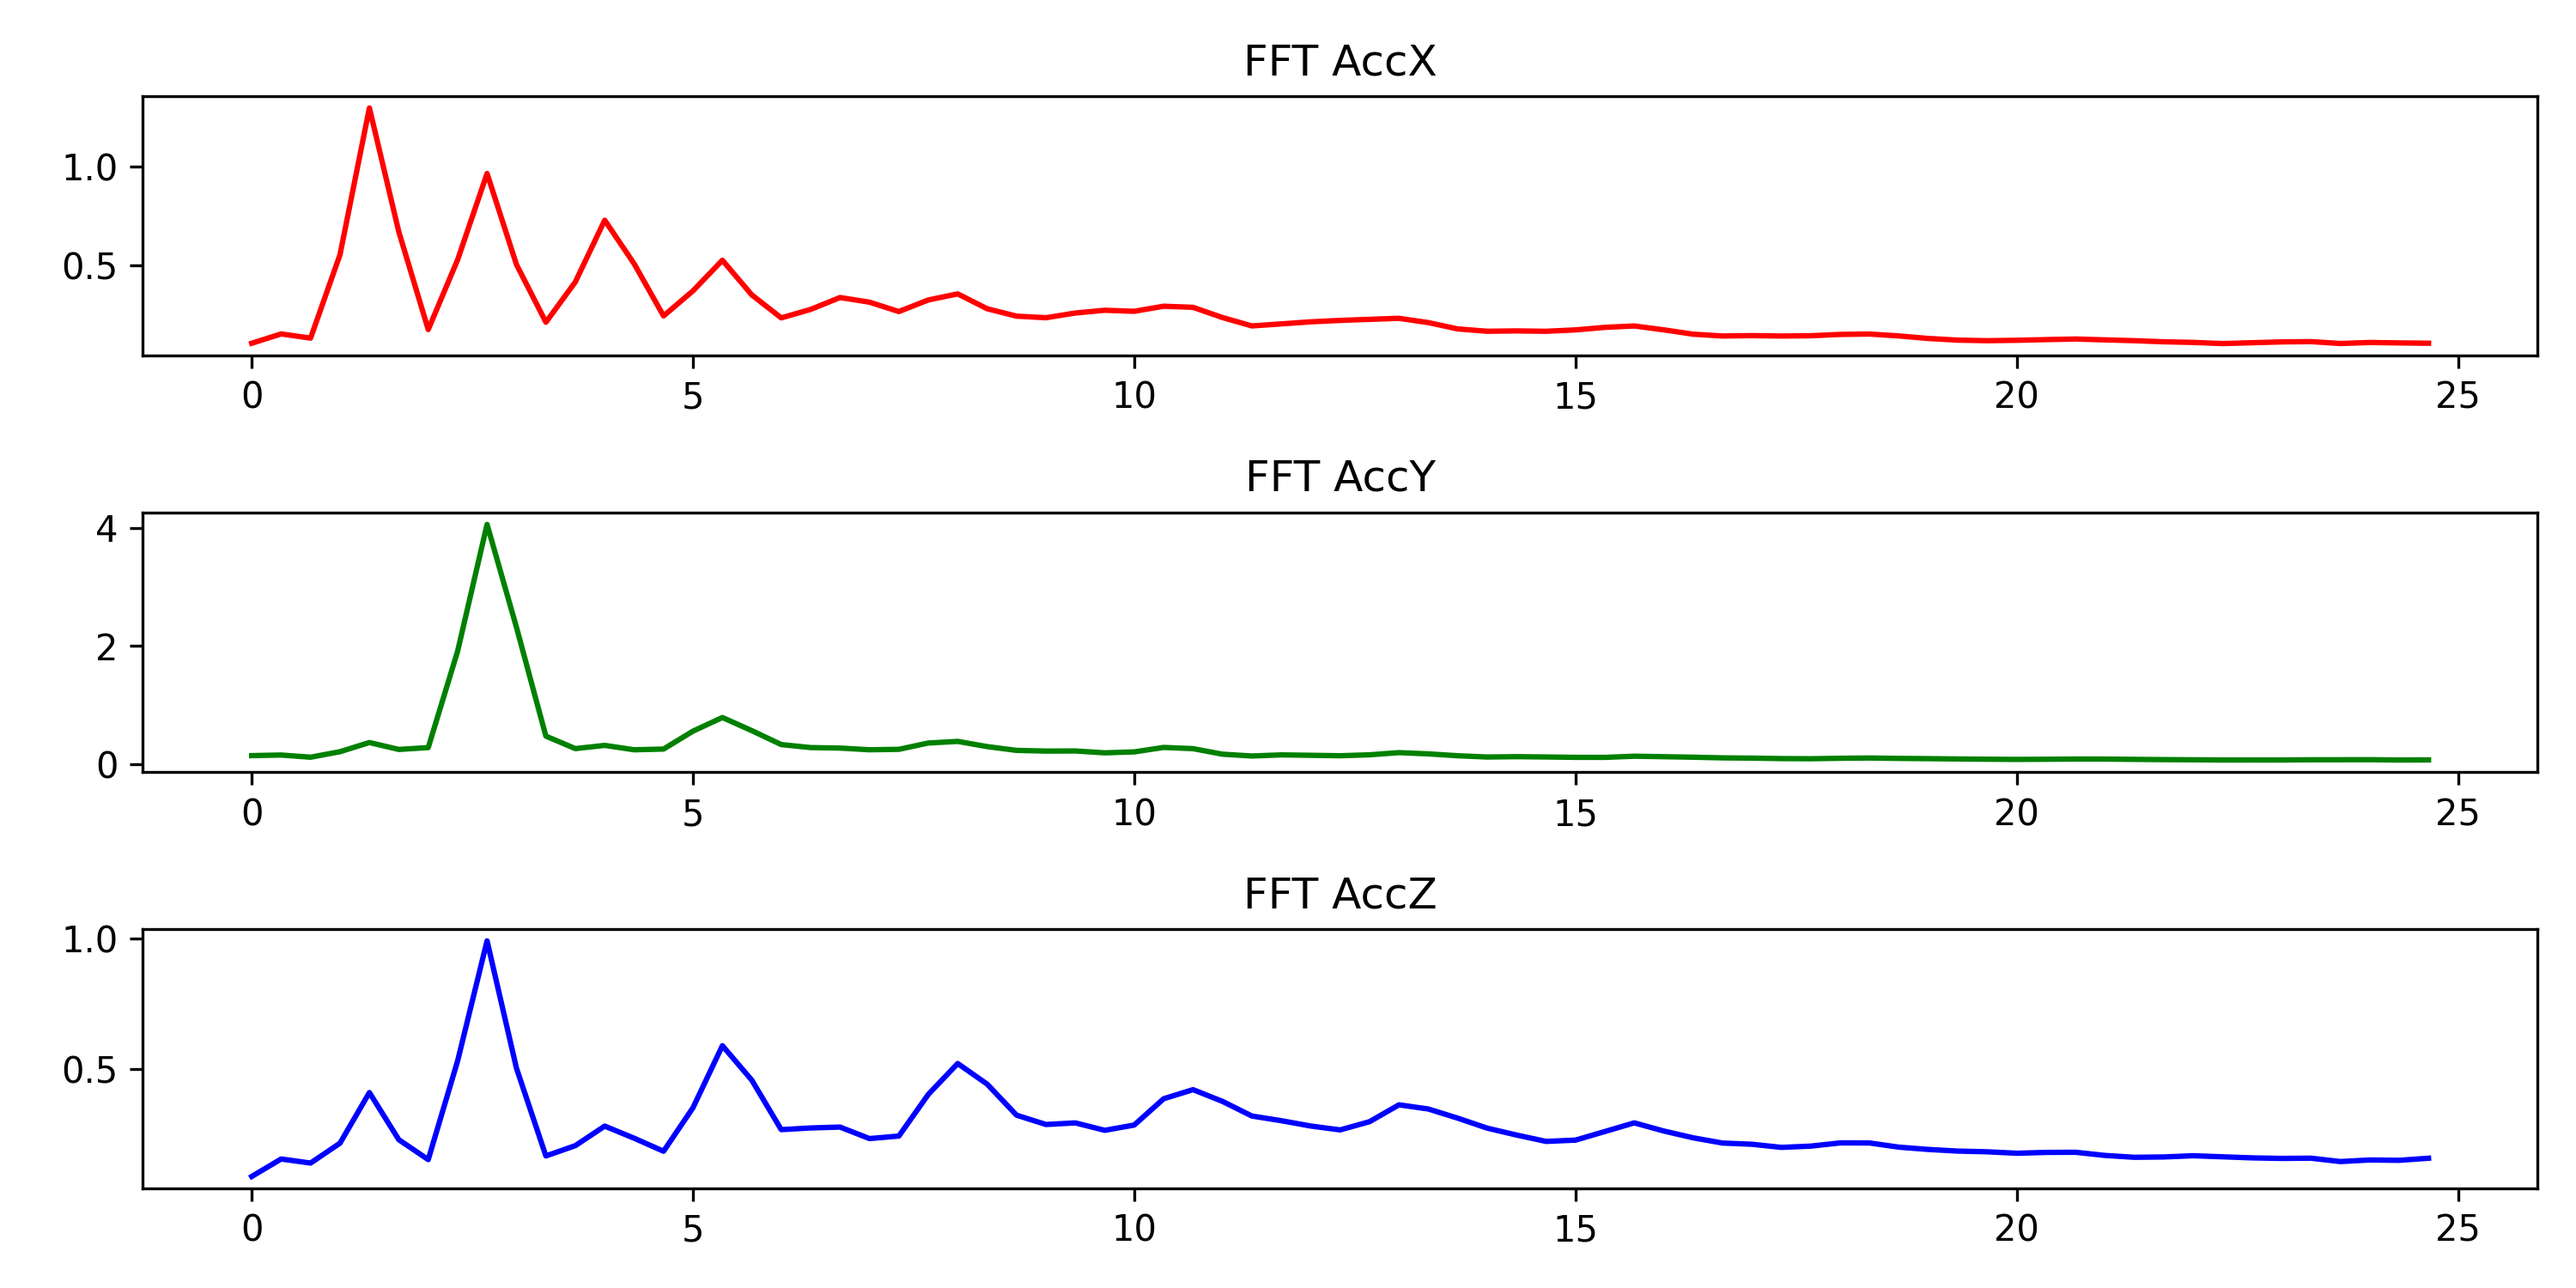
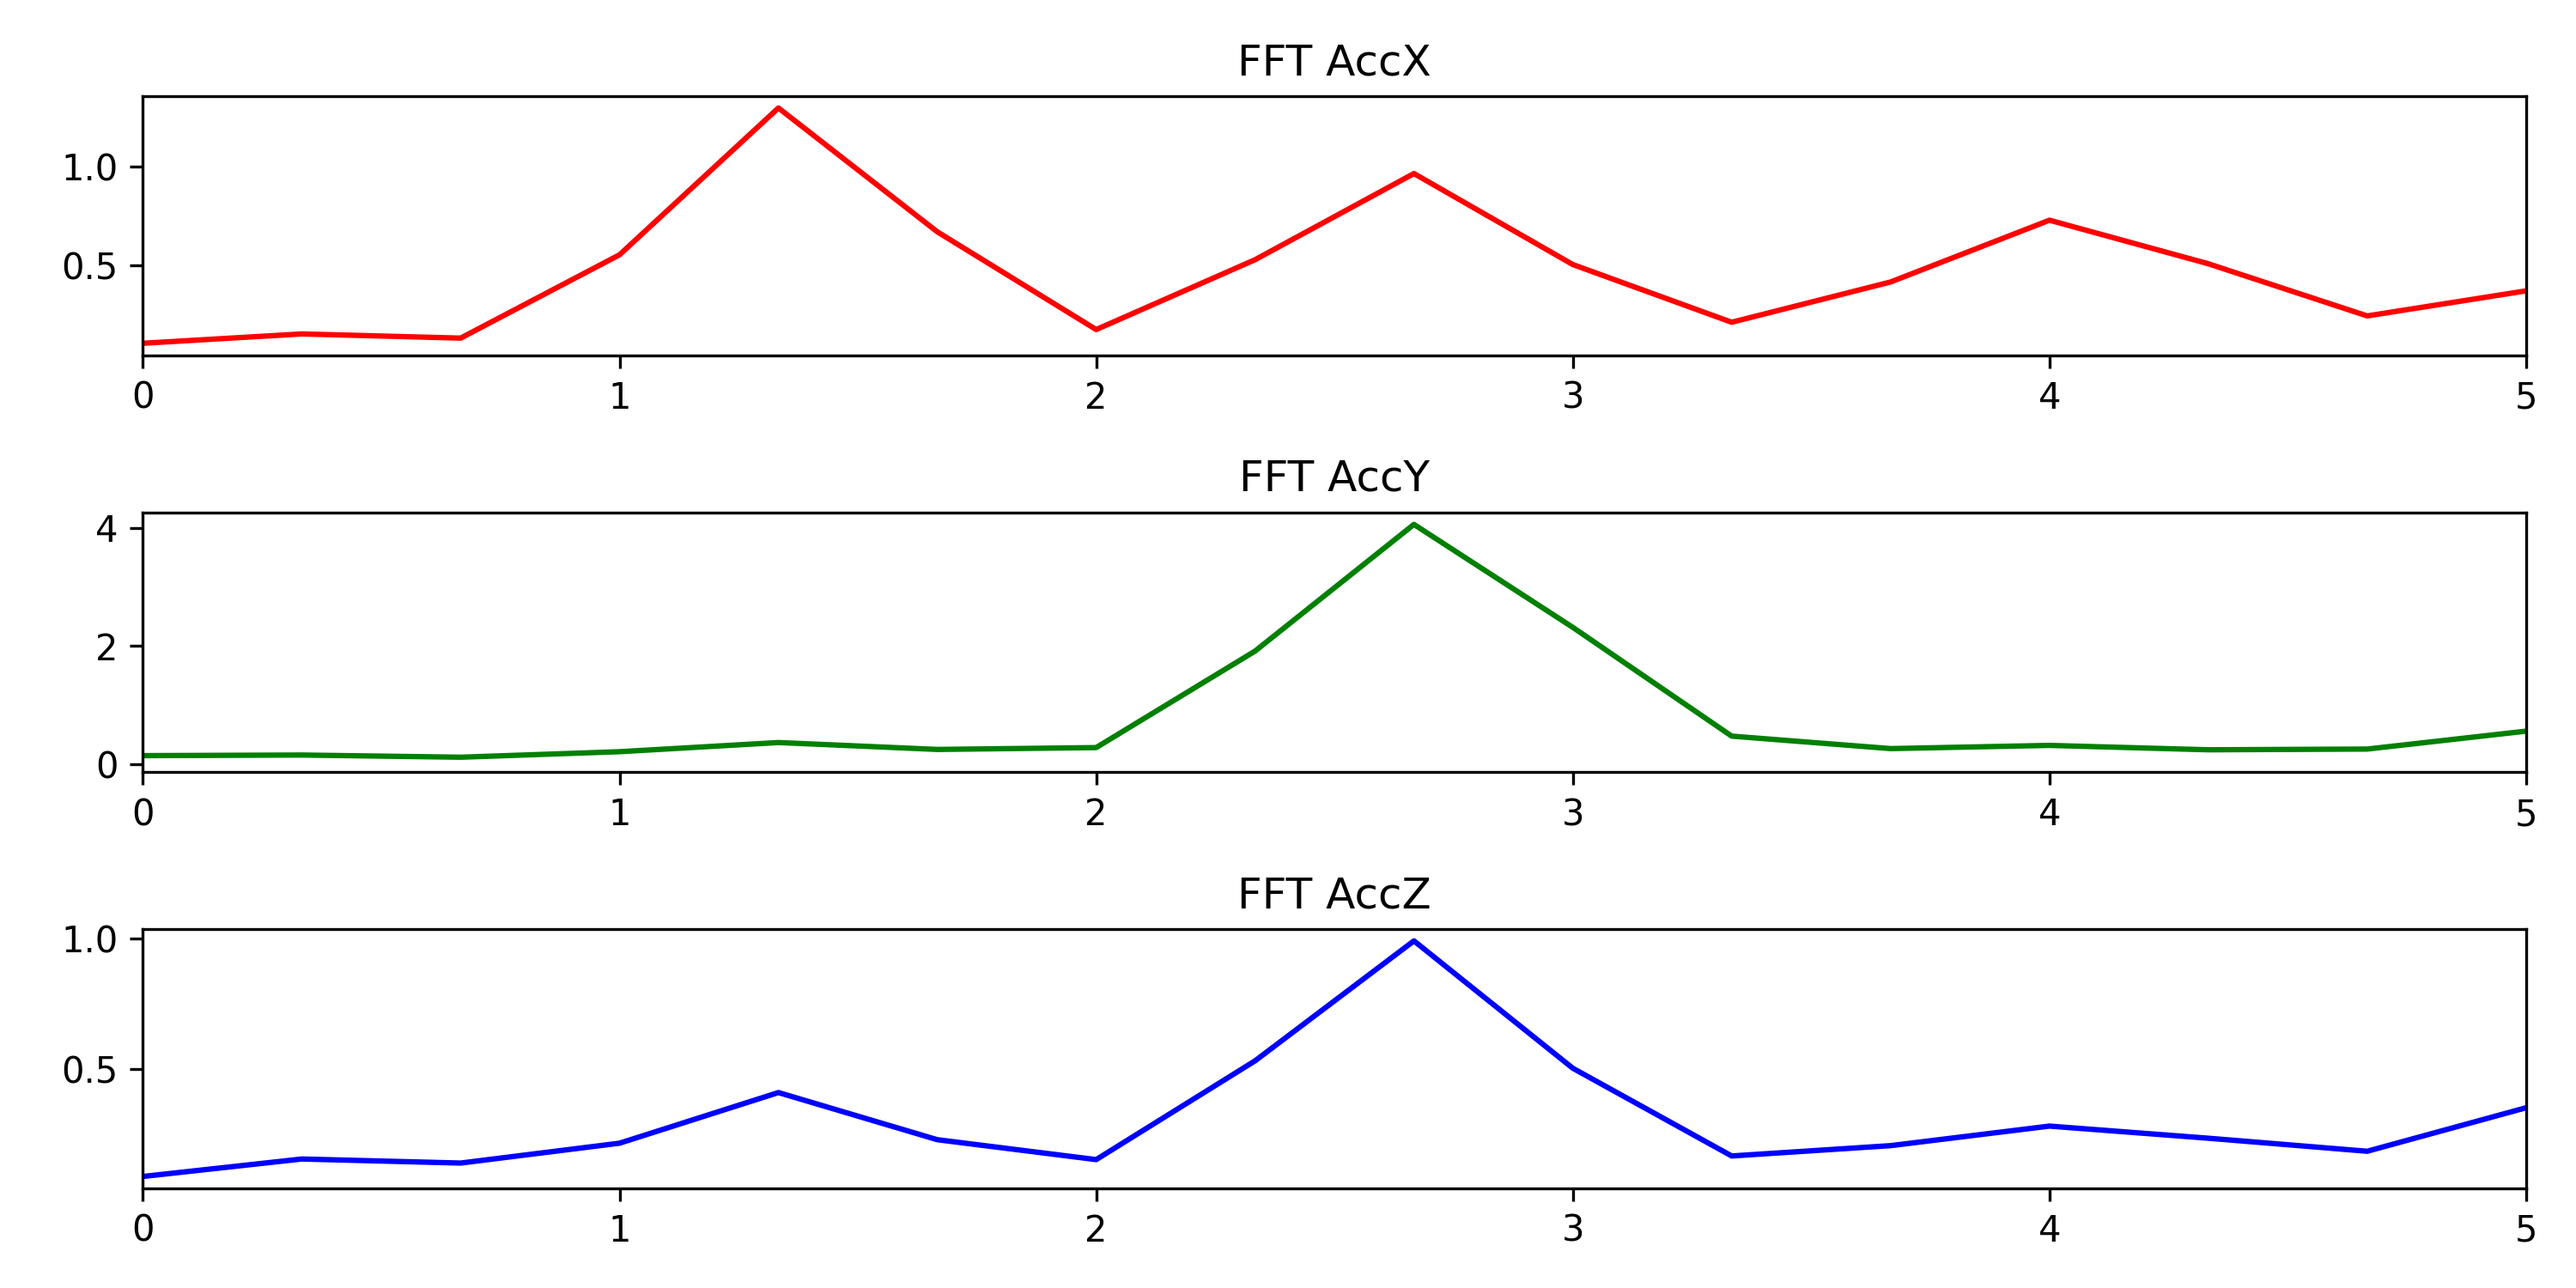
data show

diff --git a/stat/stat_common.py b/stat/stat_common.py
@@ -56,37 +56,28 @@ def calc_fft_spectral_energy(df, acc_x_name='accx',acc_y_name= 'accy',acc_z_name
     df_acc_y = df[acc_y_name].values
     df_acc_z = df[acc_z_name].values
 
-    N = len(df_acc_x)
+    # 使用 Welch 方法计算功率谱密度（PSD）
+    freqs_x, psd_x = welch(df_acc_x, fs=T, nperseg=len(df))
+    freqs_y, psd_y = welch(df_acc_y, fs=T, nperseg=len(df))
+    freqs_z, psd_z = welch(df_acc_z, fs=T, nperseg=len(df))
 
-    # 前处理: 去除直流成分
-    df_acc_x = df_acc_x - np.mean(df_acc_x)
-    df_acc_y = df_acc_y - np.mean(df_acc_y)
-    df_acc_z = df_acc_z - np.mean(df_acc_z)
+    # 找到指定频率范围 [0, 5Hz] 的索引
+    freq_indices = np.where((freqs_x >= 0) & (freqs_x <= 5))[0]
 
-    # 计算傅里叶变换 (对原始数据进行 汉明窗变换)
-    df_acc_x = calc_hanmming_window(df_acc_x, N)
-    df_acc_y = calc_hanmming_window(df_acc_y, N)
-    df_acc_z = calc_hanmming_window(df_acc_z, N)
+    # 计算频带 [0, 5Hz] 的能量
+    spectral_energy_x = np.sum(psd_x[freq_indices])
+    spectral_energy_y = np.sum(psd_y[freq_indices])
+    spectral_energy_z = np.sum(psd_z[freq_indices])
 
-    # FFT
-    fft_acc_x = fft(df_acc_x)
-    fft_acc_y = fft(df_acc_y)
-    fft_acc_z = fft(df_acc_z)
+    # 归一化：除以频率区间内的频率数量 (x + y + 1)
+    normalized_energy_x = spectral_energy_x / (5 + 1)
+    normalized_energy_y = spectral_energy_y / (5 + 1)
+    normalized_energy_z = spectral_energy_z / (5 + 1)
 
-    # 只保留正频率部分（傅里叶变换的前一半结果）
-    fft_acc_x = fft_acc_x[:N // 2]
-    fft_acc_y = fft_acc_y[:N // 2]
-    fft_acc_z = fft_acc_z[:N // 2]
+    # 总的频谱能量
+    total_spectral_energy = normalized_energy_x + normalized_energy_y + normalized_energy_z
 
-    # spectral_energy 计算频谱能量
-    spectral_energy_x = np.sum(np.abs(fft_acc_x) ** 2) / (N * T)
-    spectral_energy_y = np.sum(np.abs(fft_acc_y) ** 2) / (N * T)
-    spectral_energy_z = np.sum(np.abs(fft_acc_z) ** 2) / (N * T)
-
-    # 使用L1 范式,计算频谱能量
-    total_spectral_energy = spectral_energy_x + spectral_energy_y + spectral_energy_z
-
-    return spectral_energy_x, spectral_energy_y, spectral_energy_z, total_spectral_energy
+    return normalized_energy_x, normalized_energy_y, normalized_energy_z, total_spectral_energy
 
 
 # 计算一个时间步上, 频谱熵
@@ -158,5 +149,10 @@ def save_fft_result(fft_x_avg_series, fft_y_avg_series, fft_z_avg_series, freq ,
     axs[0].set_title('FFT AccX')
     axs[1].set_title('FFT AccY')
     axs[2].set_title('FFT AccZ')
+    # 限制 x 轴最多显示到 5
+    axs[0].set_xlim(0, 5)
+    axs[1].set_xlim(0, 5)
+    axs[2].set_xlim(0, 5)
+
     fig.tight_layout()
     plt.savefig(f'{file_name}', dpi=300)

diff --git a/stat/stat_child_2023.py b/stat/stat_child_2023.py
@@ -329,4 +329,4 @@ def calc_df_avg_fft(df):
     return fft_x_avg_series, fft_y_avg_series, fft_z_avg_series, freq, df_stat
 
 if __name__ == '__main__':
-    show_child_hist_stat2()
+    show_child_hist_stat3()

diff --git a/stat/stat_student.py b/stat/stat_student.py
@@ -330,4 +330,4 @@ def show_child_after_transformed():
     # plt.show()
 
 if __name__ == '__main__':
-    show_stu_hist_stat2()
+    show_stu_hist_stat()
